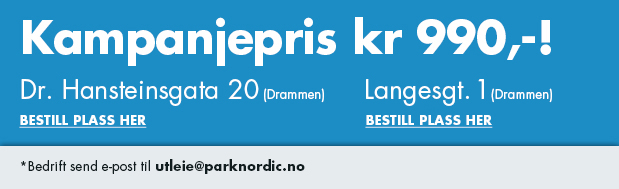
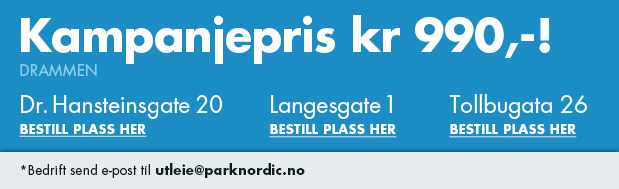
Ändringar på startsidan samt på alla undersidorna. Förändrad logik vid genereringen av menyn

Changed region(s): [[0.0, 0.3175, 1.0, 0.8201], [0.0307, 0.0794, 0.8901, 0.3439], [0.0307, 0.8466, 0.4911, 0.9259]]

diff --git a/css/master.css b/css/master.css
@@ -115,7 +115,25 @@ h1, h2, h3 {
 #main-content {
 	padding-top: 20px;
 }
-
+    #news-frame {
+        margin-left: 5px;
+        padding: 10px;
+        width: 255px;
+        background-color: #f5f5f5;
+        border: solid 5px;
+        border-color: #fff;
+        box-shadow: 1px 1px 1px #aaa;
+        margin-bottom: 20px;
+    }
+	#news-frame h4,
+	#news-frame h4 a {
+		color: #000;
+		font-size: 20px;
+	}
+	#news-frame h4 {
+		margin: 2px 0;
+		font-weight: 800;
+    }
 #logo {
 	margin-left:0;
 	padding-top: 5px;
@@ -144,7 +162,7 @@ h1, h2, h3 {
 	margin-right: 5px;
 	/*min-width: 100px;*/
 	text-align:center;
-	margin: 0 10px;
+	margin: 0 9px;
 }
 #top .nav li a {
 	height: 25px;
@@ -244,6 +262,8 @@ input, .input-append { display: inline-block; vertica-align: middle; }
 .home-p-text {
     padding:5px 0;
     font-size: 18px;
-    
-    line-height: 1.4em
+    color: #222;
+    font-style: italic;   
+    line-height: 1.4em;
+    margin-top: 10px;
 }

diff --git a/_content/cnt_home.php b/_content/cnt_home.php
@@ -10,10 +10,11 @@
       <!--
       <a href="http://parknordic-permit.mspace.giantleap.no/user.html#/login"><img style="border:none" src="/img/banner_front_park_tilbud.jpg" alt="Leie 3 måneder for 1 mnd gratis - Gjelder følgende områder: Rosenbergveien 15, Oslo. Marieboesgt. 16, Oslo og Kanalveien, Lillestrøm."></a>
       -->
-      <img src ="/img/banner_nett_drammen.jpg" width="619" height="189" alt="Bestill plats" usemap="#bestill-map">
+      <img src ="/img/banner_nett_drammen.jpg" width="619" height="189" alt="Bestill plats" usemap="#bestill-map">        
       <map name="bestill-map">
-        <area shape="rect" coords="17,113,149,132" href="https://parknordic-permit.giantleap.no/embedded-user-shop.html#/shop/pre-selected-product/eef13fab-02cb-40cc-975f-b4838d7e94c0" alt="Dr. Hansteinsgt. 20">
-        <area shape="rect" coords="363,112,497,127" href="https://parknordic-permit.giantleap.no/embedded-user-shop.html#/shop/pre-selected-product/73d8b67f-6867-47d3-bc3d-a0d49affbcea" alt="Langesgt. 1">
+        <area shape="rect" coords="20,95,223,135" href="https://parknordic-permit.giantleap.no/embedded-user-shop.html#/shop/pre-selected-product/eef13fab-02cb-40cc-975f-b4838d7e94c0" alt="Dr. Hansteinsgate 20">
+        <area shape="rect" coords="266,95,398,135" href="https://parknordic-permit.giantleap.no/embedded-user-shop.html#/shop/pre-selected-product/73d8b67f-6867-47d3-bc3d-a0d49affbcea" alt="Langesgt. 1">
+        <area shape="rect" coords="449,95,592,135" href="https://parknordic-permit.giantleap.no/embedded-user-shop.html#/shop/pre-selected-product/0a000f01-dbb5-413c-be6d-8da4203ddc9d" alt="Tollbugata 26">
       </map>
 
       <p class="home-p-text">
@@ -25,6 +26,14 @@
     </div>
   </div>
   <div id="lots" class="span4">
+    <div id="news-frame">
+        <h4><a href="/nyheter/">Siste nytt</a></h4>
+        <p style="padding: 5px 0; color: #111111">
+            <?php if($news !== false) { ?>
+                <?php echo $PN->substrwords($news[0]->News,190, "… <a href=\"/nyheter/".strftime("%Y/%m",strtotime($news[0]->Date_Added)) ."/" .$news[0]->Slug ."/\">Les mer</a>"); ?>
+            <?php } ?>
+        </p>
+    </div>
     <?php $PN->getCities(); ?>
     <p>
       <a href="/assets/Produktark_ParkNordic_A4.pdf">FORENKLET OG EFFEKTIV PARKERINGSADMINISTRASJON!</a>

diff --git a/index.php b/index.php
@@ -139,19 +139,15 @@ $news = $PN->getNews();
                 <img src="/img/<?php echo $PN->Banner($nav->getInclude()); ?>" alt="">
               </div>
               <div class="span4">
-                <div id="right-top-frame">
-                  <h4><a href="/nyheter/">Siste nytt</a></h4>
-                  <p style="padding: 5px 0; color: #111111">
-                    <?php if($news !== false) { ?>
-                      <?php echo $PN->substrwords($news[0]->News,190, "… <a href=\"/nyheter/".strftime("%Y/%m",strtotime($news[0]->Date_Added)) ."/" .$news[0]->Slug ."/\">Les mer</a>"); ?>
-                    <?php } ?>
-                  </p>
-                </div>
                 <div id="right-bottom-frame">
                     <h4><a href="/kontrollavgift/">Kontrollavgift?</a></h4>
                     <p style="padding: 5px 0; color: #fff">
                       Kontrollavgift? Har du mottatt kontrollavgift.<br><a href="/kontrollavgift/">Les her</a> om hvordan ta kontakt.
                     </p>
+                </div>
+                <div id="right-top-frame">
+                    <h4>Oppdragsgiver</h4>
+                    <a href="/oppdragsgiver">Klikk her</a>
                 </div>
               </div>
             

diff --git a/_content/cnt_om-oss.php b/_content/cnt_om-oss.php
@@ -21,6 +21,14 @@ givere.
     <strong>Vår kunnskap din trygghet!</strong>
  </div>
   <div id="lots" class="span4">
+    <div id="news-frame">
+        <h4><a href="/nyheter/">Siste nytt</a></h4>
+        <p style="padding: 5px 0; color: #111111">
+            <?php if($news !== false) { ?>
+                <?php echo $PN->substrwords($news[0]->News,190, "… <a href=\"/nyheter/".strftime("%Y/%m",strtotime($news[0]->Date_Added)) ."/" .$news[0]->Slug ."/\">Les mer</a>"); ?>
+            <?php } ?>
+        </p>
+    </div>
     <?php $PN->getCities(); ?>
   </div>
 </div>

diff --git a/_content/cnt_kredinor.php b/_content/cnt_kredinor.php
@@ -79,6 +79,14 @@
     <?php } ?>
   </div>
   <div id="lots" class="span4">
+    <div id="news-frame">
+        <h4><a href="/nyheter/">Siste nytt</a></h4>
+        <p style="padding: 5px 0; color: #111111">
+            <?php if($news !== false) { ?>
+                <?php echo $PN->substrwords($news[0]->News,190, "… <a href=\"/nyheter/".strftime("%Y/%m",strtotime($news[0]->Date_Added)) ."/" .$news[0]->Slug ."/\">Les mer</a>"); ?>
+            <?php } ?>
+        </p>
+    </div>
     <?php $PN->getCities(); ?>
   </div>
 </div>

diff --git a/_content/cnt_hvor-er-vi.php b/_content/cnt_hvor-er-vi.php
@@ -147,6 +147,14 @@
       </script>
   </div>
   <div id="lots" class="span4">
+    <div id="news-frame">
+        <h4><a href="/nyheter/">Siste nytt</a></h4>
+        <p style="padding: 5px 0; color: #111111">
+            <?php if($news !== false) { ?>
+                <?php echo $PN->substrwords($news[0]->News,190, "… <a href=\"/nyheter/".strftime("%Y/%m",strtotime($news[0]->Date_Added)) ."/" .$news[0]->Slug ."/\">Les mer</a>"); ?>
+            <?php } ?>
+        </p>
+    </div>
     <?php $PN->getCities(); ?>
 
   </div>

diff --git a/_content/cnt_kontakt-oss.php b/_content/cnt_kontakt-oss.php
@@ -44,6 +44,14 @@
     </form>
   </div>
   <div id="lots" class="span4">
+    <div id="news-frame">
+        <h4><a href="/nyheter/">Siste nytt</a></h4>
+        <p style="padding: 5px 0; color: #111111">
+            <?php if($news !== false) { ?>
+                <?php echo $PN->substrwords($news[0]->News,190, "… <a href=\"/nyheter/".strftime("%Y/%m",strtotime($news[0]->Date_Added)) ."/" .$news[0]->Slug ."/\">Les mer</a>"); ?>
+            <?php } ?>
+        </p>
+    </div>
     <?php $PN->getCities(); ?>
   </div>
 </div>

diff --git a/_content/cnt_kontrollavgift.php b/_content/cnt_kontrollavgift.php
@@ -21,6 +21,14 @@
 	</p>
   </div>
   <div id="lots" class="span4">
+    <div id="news-frame">
+        <h4><a href="/nyheter/">Siste nytt</a></h4>
+        <p style="padding: 5px 0; color: #111111">
+            <?php if($news !== false) { ?>
+                <?php echo $PN->substrwords($news[0]->News,190, "… <a href=\"/nyheter/".strftime("%Y/%m",strtotime($news[0]->Date_Added)) ."/" .$news[0]->Slug ."/\">Les mer</a>"); ?>
+            <?php } ?>
+        </p>
+    </div>
     <?php $PN->getCities(); ?>
   </div>
 </div>

diff --git a/_content/cnt_bestille-plass.php b/_content/cnt_bestille-plass.php
@@ -119,5 +119,13 @@
 		</div>
 	</div>
 	<div id="lots" class="span4">
+    <div id="news-frame">
+        <h4><a href="/nyheter/">Siste nytt</a></h4>
+        <p style="padding: 5px 0; color: #111111">
+            <?php if($news !== false) { ?>
+                <?php echo $PN->substrwords($news[0]->News,190, "… <a href=\"/nyheter/".strftime("%Y/%m",strtotime($news[0]->Date_Added)) ."/" .$news[0]->Slug ."/\">Les mer</a>"); ?>
+            <?php } ?>
+        </p>
+    </div>
 		<?php $PN->getCities(); ?></div>
 </div>

diff --git a/_content/cnt_nyheter.php b/_content/cnt_nyheter.php
@@ -1,6 +1,6 @@
 <!-- 6 -->
 <div class="row">
-  <div class="span8">
+  <div class="span12">
   	
     <?php if($nav->getArgs(0) !== false && $nav->getArgs(1) !== false && $nav->getArgs(2) !== false) { ?>
     	<?php $news = $PN->loadNews($nav->getArgs(0), $nav->getArgs(1), $nav->getArgs(2)); ?>
@@ -32,8 +32,5 @@
       <?php } ?>
       </ul>
     <?php } ?>
-  </div>
-  <div id="lots" class="span4">
-    <?php $PN->getCities(); ?>
   </div>
 </div>

diff --git a/_content/cnt_oppdragsgiver.php b/_content/cnt_oppdragsgiver.php
@@ -1,7 +1,6 @@
-<!-- 3 -->
+<!-- 10 -->
 <div class="row">
   <div class="span8">
-    <iframe style="width: 620px; height: 560px; overflow: hidden;" src="https://klage.netpark.no/KredinorReg/ParkNordicklage.aspx" frameborder="0"></iframe>
   </div>
   <div id="lots" class="span4">
     <div id="news-frame">
@@ -15,6 +14,4 @@
     <?php $PN->getCities(); ?>
   </div>
 </div>
-<script type="text/javascript">
-  $("#contact").validate();
-</script>
+
